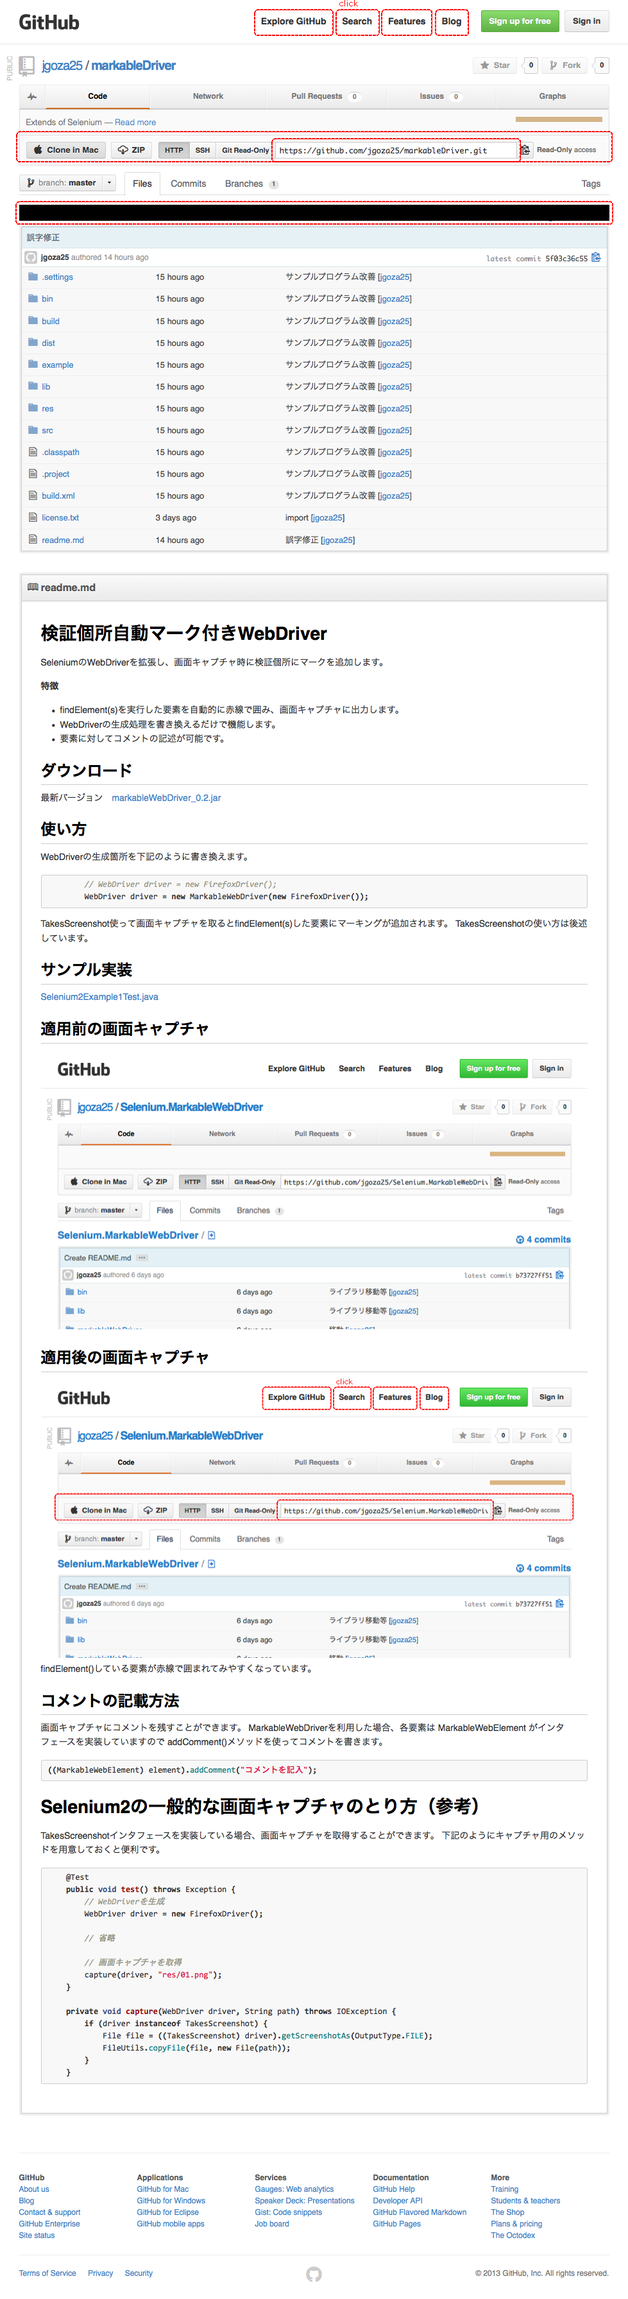
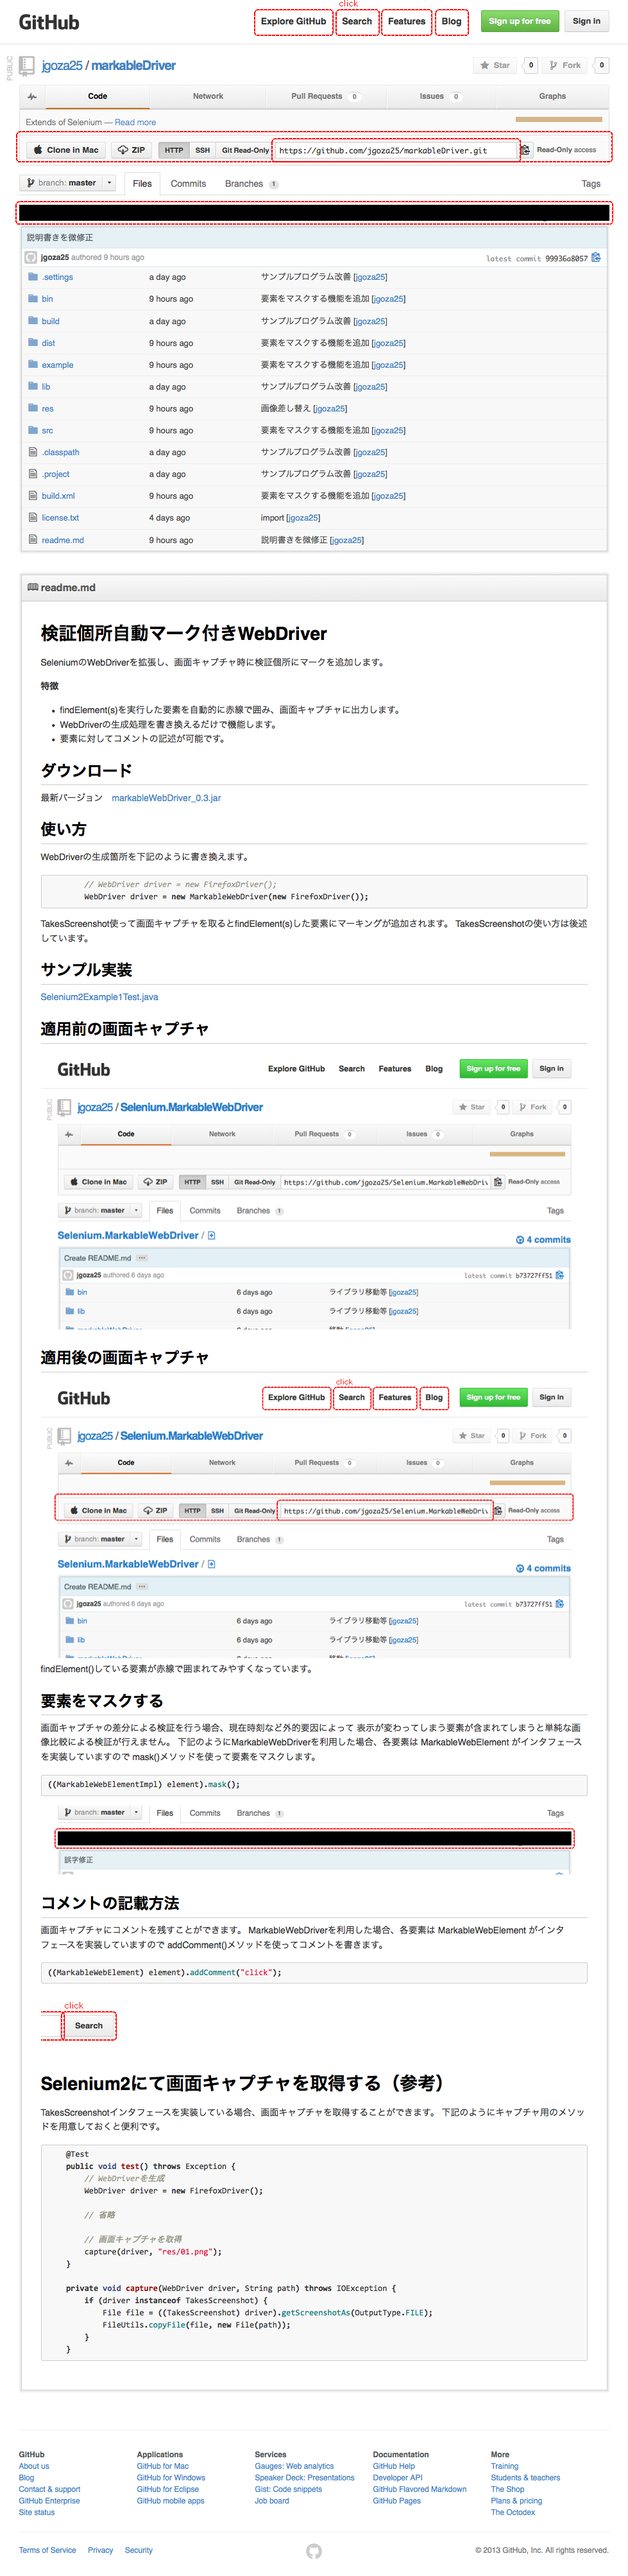
画面検証機能を追加

diff --git a/example/org/jgoza25/selenium/example/Selenium2Example1Test.java b/example/org/jgoza25/selenium/example/Selenium2Example1Test.java
@@ -3,14 +3,15 @@ package org.jgoza25.selenium.example;
 import static org.hamcrest.CoreMatchers.is;
 import static org.junit.Assert.assertEquals;
 import static org.junit.Assert.assertThat;
+import static org.junit.Assert.fail;
 
 import java.io.File;
 import java.io.IOException;
-import java.util.List;
 import java.util.concurrent.TimeUnit;
 
 import org.apache.commons.io.FileUtils;
 import org.jgoza25.selenium.MarkableWebDriver;
+import org.jgoza25.selenium.MarkableWebElement;
 import org.jgoza25.selenium.MarkableWebElementImpl;
 import org.junit.Test;
 import org.openqa.selenium.By;
@@ -25,8 +26,10 @@ public class Selenium2Example1Test {
 	@Test
 	public void test() throws Exception {
 
+		// WebDriverを通常のWebDriverをラップしたMarkableWebDriver()を生成します。
 		// WebDriver driver = new FirefoxDriver();
 		WebDriver driver = new MarkableWebDriver(new FirefoxDriver());
+		
 		driver.manage().timeouts().implicitlyWait(3000, TimeUnit.MILLISECONDS);
 
 		driver.get("https://github.com/jgoza25/markableDriver");
@@ -47,7 +50,11 @@ public class Selenium2Example1Test {
 		
 		// Searchリンク要素を囲みclickとコメントを記載します。
 		comment(srchlink, "click");
+		
+		// 画面を検証します。
+		assertScreenshot(driver, "res/01.png");
 		capture(driver, "res/01.png");
+		
 		srchlink.click();
 
 		WebElement srchtxt = driver.findElement(By.name("q"));
@@ -64,21 +71,53 @@ public class Selenium2Example1Test {
 		driver.close();
 	}
 
-	protected void capture(WebDriver driver, String path) throws IOException {
+	/**
+	 * 画面キャプチャを取得します。
+	 * 
+	 * @param driver WebDriver
+	 * @param path 画像を保存するパス
+	 * @throws IOException
+	 */
+	private void capture(WebDriver driver, String path) throws IOException {
 		if (driver instanceof TakesScreenshot) {
 			File file = ((TakesScreenshot) driver).getScreenshotAs(OutputType.FILE);
 			FileUtils.copyFile(file, new File(path));
 		}
 	}
+	
+	/**
+	 * 画面キャプチャを検証します。
+	 * 
+	 * @param driver WebDriver
+	 * @param path 画面キャプチャのパス（期待値）
+	 * @throws IOException
+	 */
+	private void assertScreenshot(WebDriver driver, String path) throws IOException {
+		if (!(driver instanceof MarkableWebDriver)) {
+			fail("Not implments MarkableWebDriver");
+		}
+		((MarkableWebDriver) driver).assertScreenshot(path);
+	}
 
-	protected void comment(WebElement element, String comment) {
-		if (element instanceof MarkableWebElementImpl) {
+	/**
+	 * 画面キャプチャにコメントを書きます。
+	 * 
+	 * @param element コメントを書く要素
+	 * @param comment コメント
+	 */
+	private void comment(WebElement element, String comment) {
+		if (element instanceof MarkableWebElement) {
 			((MarkableWebElementImpl) element).addComment(comment);
 		}
 	}
 	
-	protected void mask(WebElement element) {
-		if (element instanceof MarkableWebElementImpl) {
+	/**
+	 * 要素をマスクします。
+	 * 
+	 * @param element マスクする要素
+	 */
+	private void mask(WebElement element) {
+		if (element instanceof MarkableWebElement) {
 			((MarkableWebElementImpl) element).mask();
 		}
 	}

diff --git a/src/org/jgoza25/selenium/MarkableWebDriver.java b/src/org/jgoza25/selenium/MarkableWebDriver.java
@@ -1,11 +1,15 @@
 package org.jgoza25.selenium;
 
+import static org.junit.Assert.assertArrayEquals;
+import static org.junit.Assert.fail;
+
 import java.awt.BasicStroke;
 import java.awt.Color;
 import java.awt.Graphics;
 import java.awt.Graphics2D;
 import java.awt.image.BufferedImage;
 import java.io.ByteArrayInputStream;
+import java.io.ByteArrayOutputStream;
 import java.io.File;
 import java.io.FileInputStream;
 import java.io.IOException;
@@ -123,6 +127,30 @@ public class MarkableWebDriver implements WebDriver, TakesScreenshot {
 		if (!(driver instanceof TakesScreenshot)) {
 			return null;
 		}
+		X x = getMarkedScreenshotAs(type);
+		markedElements.clear();
+		return x;
+	}
+
+	/**
+	 * 画面キャプチャを検証します。
+	 * 
+	 * @param path 画面キャプチャのパス（期待値）
+	 * @throws IOException
+	 */
+	public void assertScreenshot(String path) throws IOException {
+		if (!(driver instanceof TakesScreenshot)) {
+			fail("Not implments TakesScreenshot");
+		}
+		byte[] actuals = getMarkedScreenshotAs(OutputType.BYTES);
+		byte[] expecteds = getImageToBytes(path);
+		assertArrayEquals(expecteds, actuals);
+	}
+
+	private <X> X getMarkedScreenshotAs(OutputType<X> type) throws WebDriverException {
+		if (!(driver instanceof TakesScreenshot)) {
+			return null;
+		}
 		TakesScreenshot ts = (TakesScreenshot) driver;
 		X x = ts.getScreenshotAs(type);
 		try {
@@ -163,13 +191,27 @@ public class MarkableWebDriver implements WebDriver, TakesScreenshot {
 				}
 			}
 			g.dispose();
-			markedElements.clear();
 			return (X) writeImage(type, img);
 		} catch (Exception e) {
 			throw new RuntimeException(e);
 		}
 	}
-
+	
+	/**
+	 * 指定したパスのImageファイル(PNG)をbyte配列で取得します。
+	 * 
+	 * @param path Imageファイルのパス
+	 * @return byte配列
+	 * @throws IOException
+	 */
+	private byte[] getImageToBytes(String path) throws IOException {
+		BufferedImage bi = ImageIO.read(new File(path));
+		ByteArrayOutputStream bos = new ByteArrayOutputStream();
+		ImageIO.write(bi, "png", bos);
+		return bos.toByteArray();
+	}
+	
+	
 	private <X> BufferedImage getImage(OutputType<X> type, Object x)
 			throws IOException {
 		if (type == OutputType.BYTES) {

diff --git a/readme.md b/readme.md
@@ -31,10 +31,17 @@ TakesScreenshotの使い方は後述しています。
 ![view3](res/00.png)
 findElement()している要素が赤線で囲まれてみやすくなっています。
 
+## 画面を検証する
+既存の画面キャプチャと比較し、現在の画面と一致するか確認します。
+assertScreenshot()メソッドを利用して検証します。引数は期待値となる画面キャプチャのファイルパスです。
+```java
+((MarkableWebDriver) driver).assertScreenshot(path);
+```
+
 ## 要素をマスクする
 画面キャプチャの差分による検証を行う場合、現在時刻など外的要因によって
 表示が変わってしまう要素が含まれてしまうと単純な画像比較による検証が行えません。
-下記のようにMarkableWebDriverを利用した場合、各要素は MarkableWebElement がインタフェースを実装していますので
+MarkableWebDriverを利用した場合、各要素は MarkableWebElement がインタフェースを実装していますので
 mask()メソッドを使って要素をマスクします。
 ```java
 ((MarkableWebElementImpl) element).mask();
